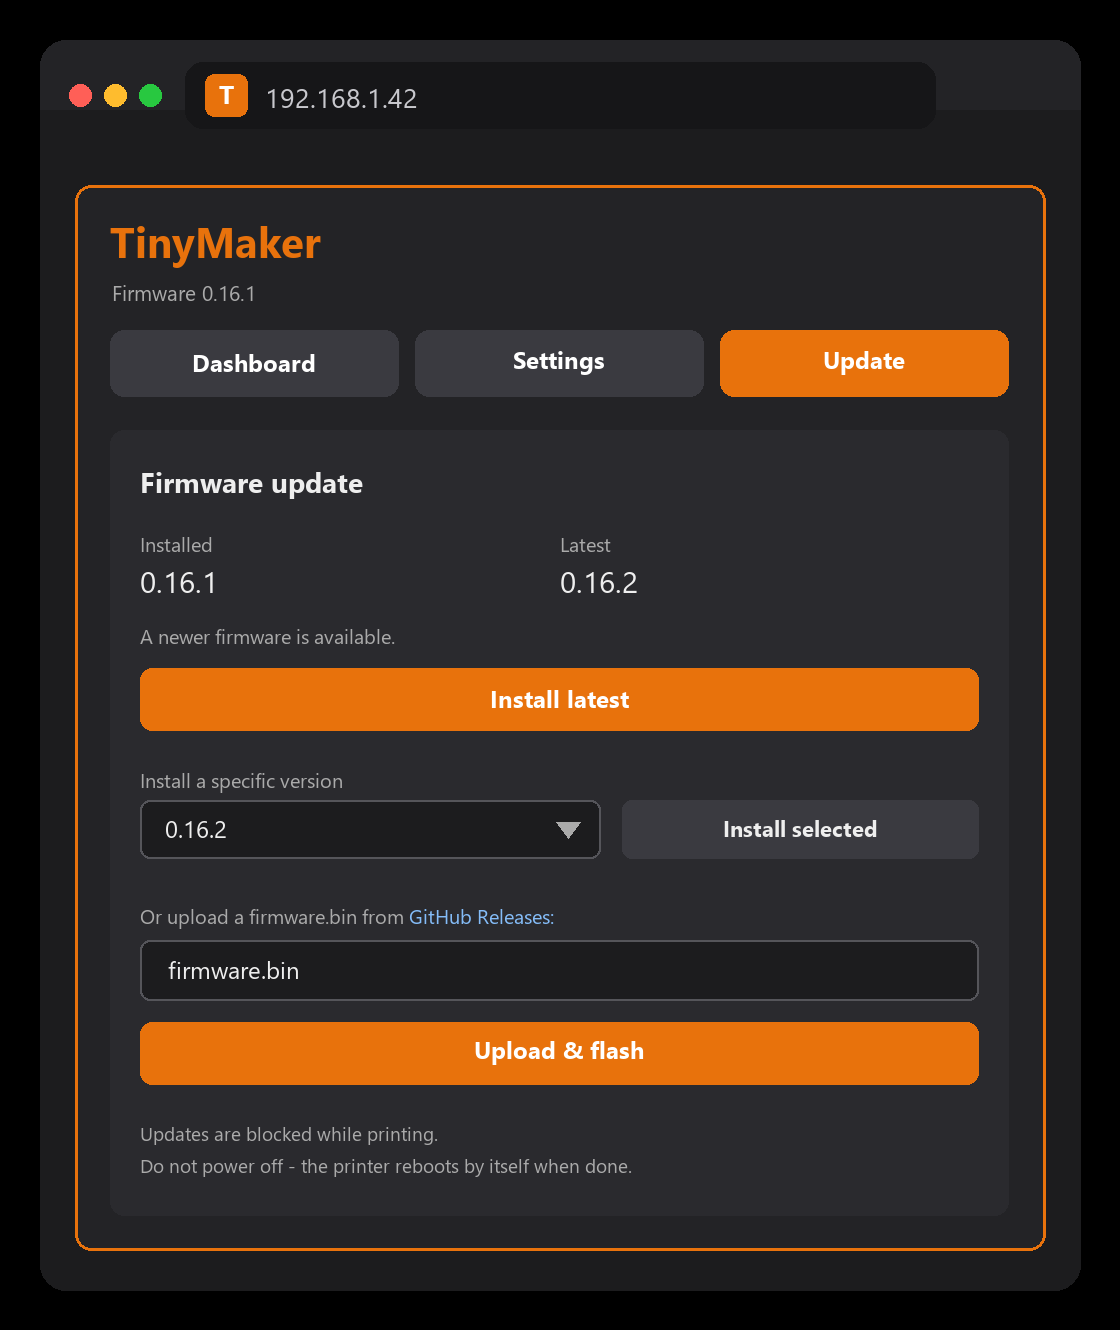
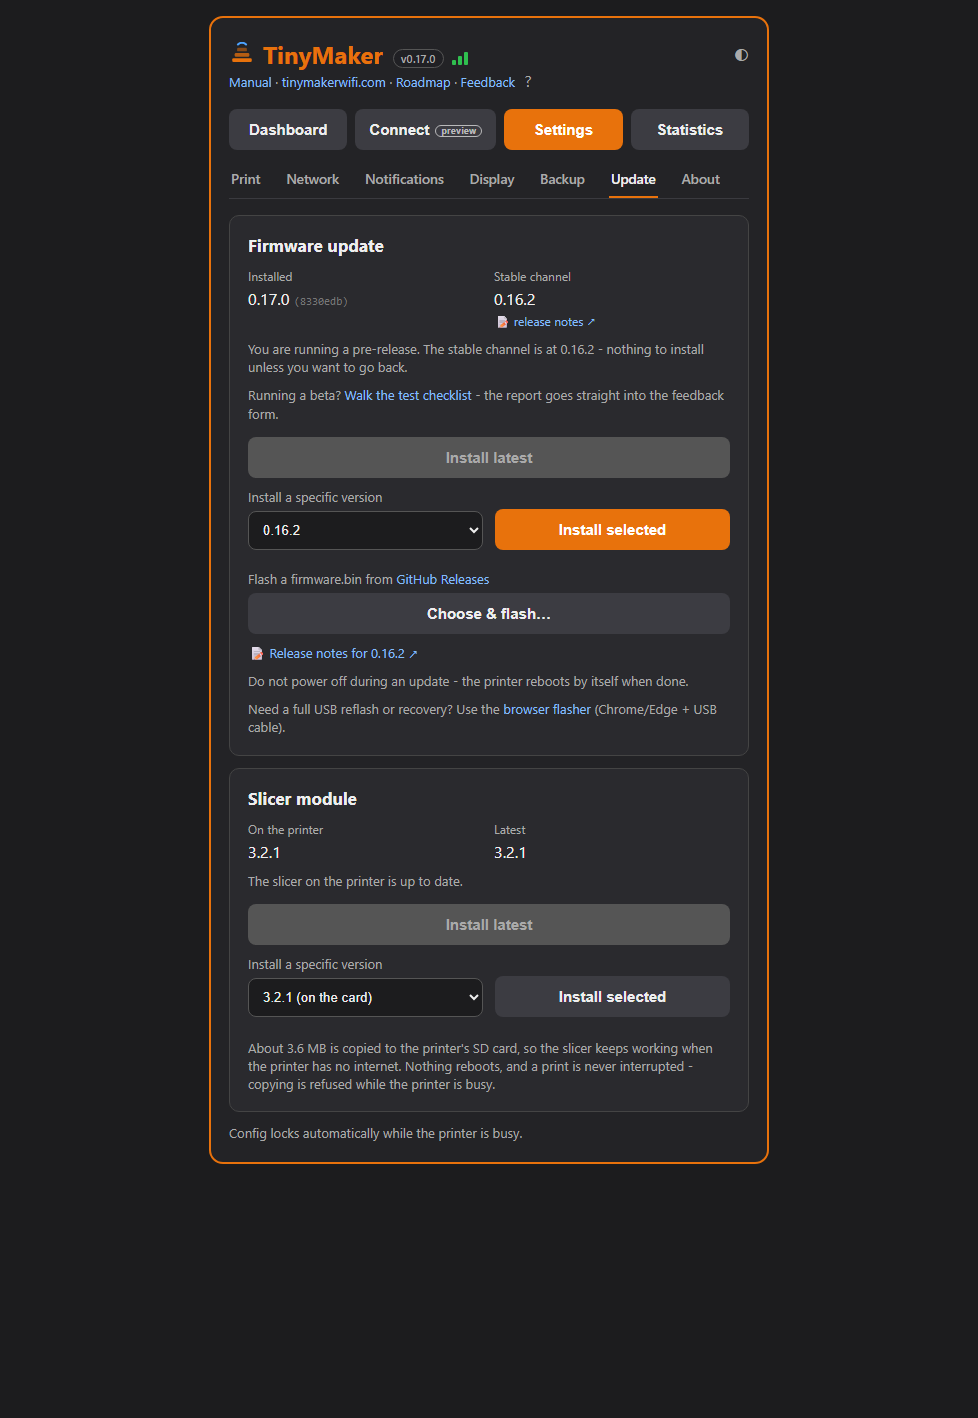
readme: the dashboard pictures are photographs now, not drawings
The Update tab picture in the README was drawn by hand and had drifted to
"Firmware 0.14.3" with no Slicer module card at all - a shipped feature the
picture denied (user caught it). A hand-drawn UI fails quietly: nothing breaks,
the image just slowly becomes untrue.

Both dashboard pictures are now shot against the printer running this build,
and refresh_mockups.py no longer redraws them - the capture commands are in
its place instead. The drawing functions stay, unused, for a picture without a
printer. The Update section also gained the line the picture now shows: the
browser slicer updates on its own, without a reboot.

diff --git a/scripts/refresh_mockups.py b/scripts/refresh_mockups.py
@@ -504,15 +504,23 @@ def main():
     print(f"  {p.name} ok")
     extend_printer_screens()
 
-    # --- web-dashboard.png: full redraw (kept in sync with the real UI) ---
-    p = MOCKUPS / "web-dashboard.png"
-    draw_dashboard(latest).save(p)
-    print(f"  {p.name} ok (regenerated)")
-
-    # --- firmware-update-page.png: full redraw of the Update tab ---
-    p = MOCKUPS / "firmware-update-page.png"
-    draw_update_page(installed, latest).save(p)
-    print(f"  {p.name} ok (regenerated)")
+    # --- web-dashboard.png / firmware-update-page.png: NEBEPIESIAMI ---
+    # Sie du buvo piesiami ranka, ir todel nuolat atsilikdavo nuo tikro pulto:
+    # 2026-08-27 README rode Update skirtuka su "Firmware 0.14.3" ir be slicerio
+    # kortele - funkcijos, kuri jau buvo isleista (V pagavo). Pieštas UI dreifuoja
+    # tyliai: niekas nesulužta, tik paveiksliukas pamazu tampa melu.
+    #
+    # Nuo dabar juos FOTOGRAFUOJAM nuo tikro printerio:
+    #   node scripts/dev/pulto_nuotrauka.mjs --url "http://<printerio-ip>/" \
+    #        --w 1500 --h 900 --out Images/mockups/web-dashboard.png
+    #   node scripts/dev/pulto_nuotrauka.mjs --url "http://<printerio-ip>/#settings" \
+    #        --w 1000 --h 1500 --click '#cfgNav a[data-pane="update"]' \
+    #        --out Images/mockups/firmware-update-page.png
+    # Tie patys failai dedami ir i docs/manual/images/.
+    #
+    # draw_dashboard() ir draw_update_page() PALIEKAMOS - jos dar praverstu, jei
+    # kada reiktu paveikslelio be tikro printerio (pvz. pristatymui), bet
+    # eiliniame paleidime nebekvieciamos.
 
     # --- model-preview-3d.png: full redraw of the 3D preview/progress ---
     draw_preview_mockup()

diff --git a/README.md b/README.md
@@ -170,7 +170,7 @@ Open the printer's IP address in any browser for the full dashboard *(initial ve
 
 While a print runs, the status card counts the current phase down next to its name — *Curing · 9s* — and a small dot says whether the printer answered just now or is mid-move. That matters on this hardware: one ESP32 drives the screen, the motor, the UV LED and the web server off a single SD card, so the dashboard is served in the gaps between layer moves. A pause of a few seconds with an amber *syncing* mark is the printer working, not the page hanging.
 
-<img src="Images/mockups/web-dashboard.png" width="420" alt="TinyMakerWiFi web dashboard: live print status, controls and SD manager">
+<img src="Images/mockups/web-dashboard.png" width="420" alt="TinyMakerWiFi web dashboard on a wide screen: status and model preview on the left, STL slicer and SD manager on the right">
 
 On a desktop-sized screen the dashboard spreads into two columns — here it is in real use, idle with a card full of models:
 
@@ -233,10 +233,11 @@ Three ways to update:
 * **On the printer (self-update, no computer):** `System → Update` shows the **installed** version and checks GitHub for the **latest**. If a newer one is available, the `Install` button lights up — press **OK** and the printer downloads and flashes it itself over WiFi.
 * **From the dashboard — the Update tab:** shows installed vs latest with an **Install latest** button, a **version picker** (install any released version, downgrades ask for confirmation) and a **file upload** for a `firmware.bin` from [Releases](https://github.com/slibbinas/TinyMakerWifi/releases) or a local build.
 * **For developers:** PlatformIO OTA — open `System → Update` on the printer (this path keeps the strict screen gate), then select the `env:tinymaker-ota` environment and Upload goes over WiFi.
+* **The browser slicer updates separately.** The same Update tab holds a **Slicer module** card — the version on the printer’s SD card vs the latest published, with its own install button and version picker. A slicer update copies a few megabytes to the card; the printer never reboots for it, and a running print is never interrupted.
 
 Do not power off during an update — and don't worry too much either: the dual OTA partition keeps the previous firmware if the update fails.
 
-<img src="Images/mockups/firmware-update-page.png" width="420" alt="Dashboard Update tab: installed vs latest, install latest, version picker and firmware.bin upload">
+<img src="Images/mockups/firmware-update-page.png" width="420" alt="Dashboard Update tab: installed version vs the stable channel, version picker, firmware.bin upload and the Slicer module card">
 
 
 > The self-update needs the latest `firmware.bin` + a `version.txt` hosted on GitHub Pages. See [`Firmware_Hosting/`](Firmware_Hosting/) for the one-time setup and per-release steps.
